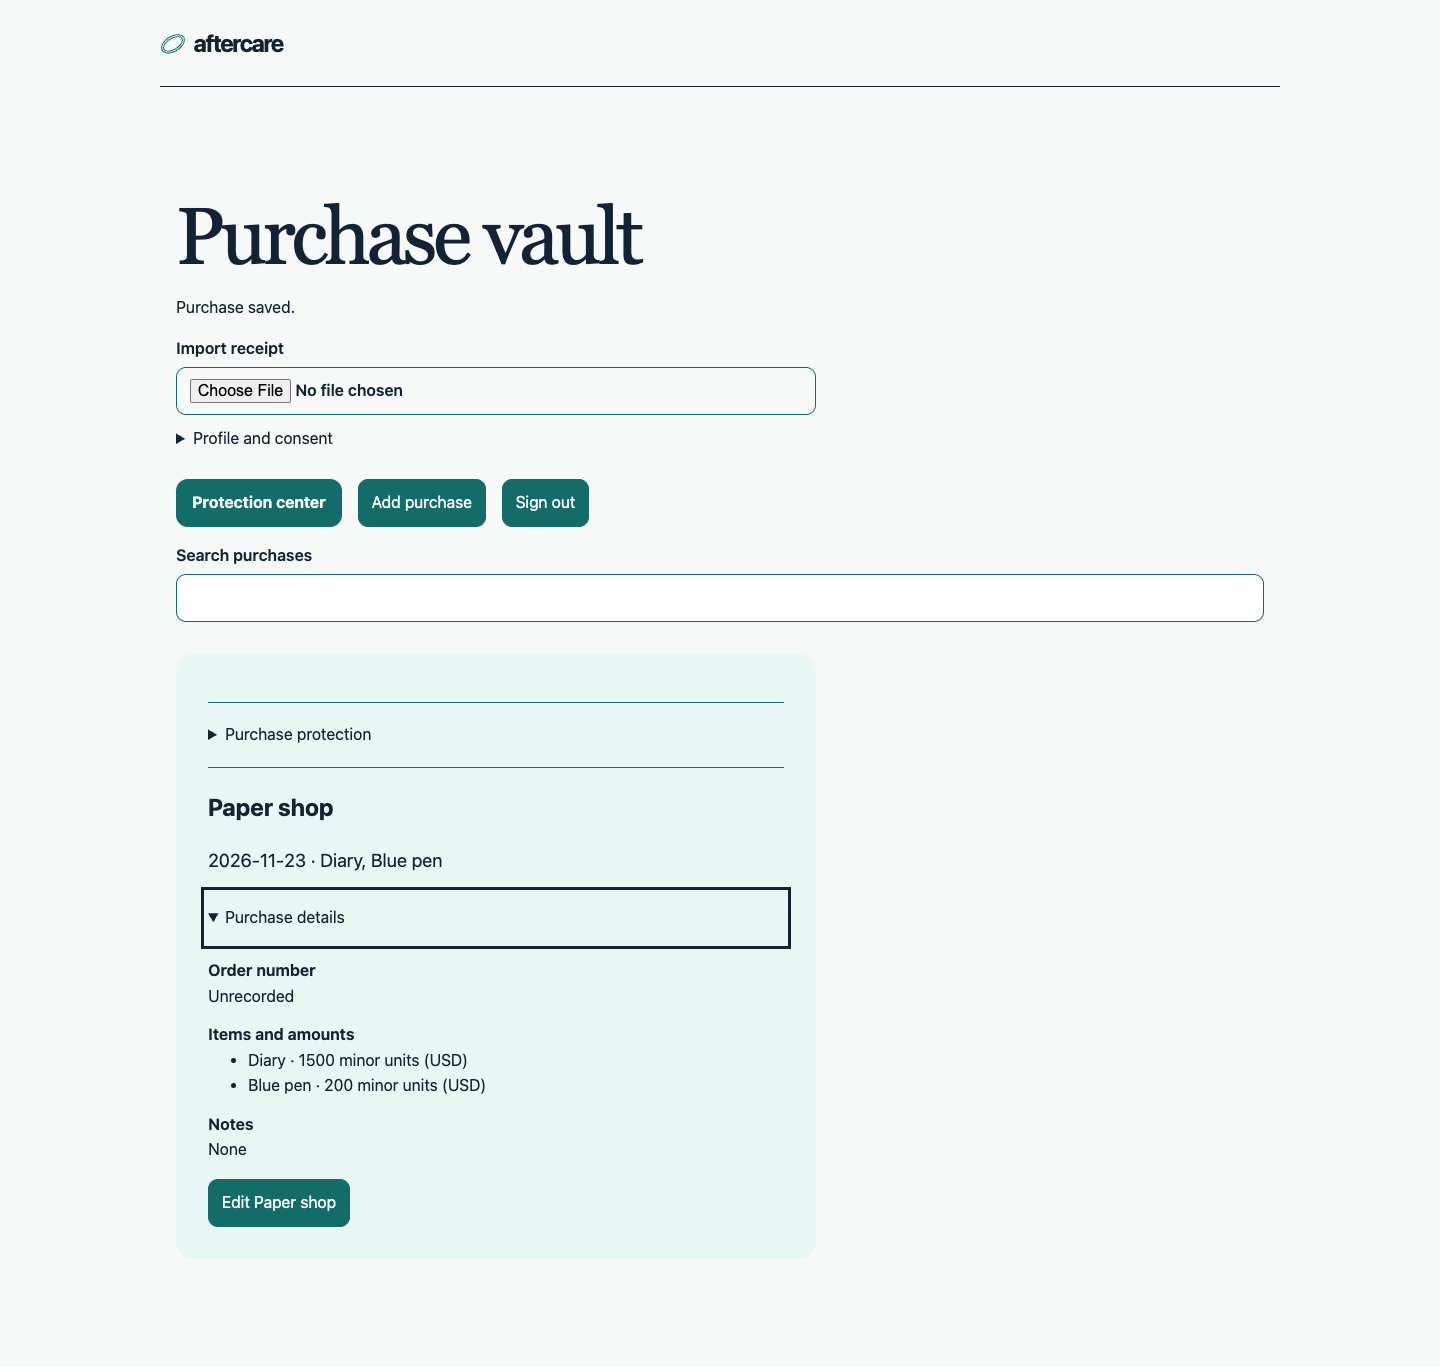
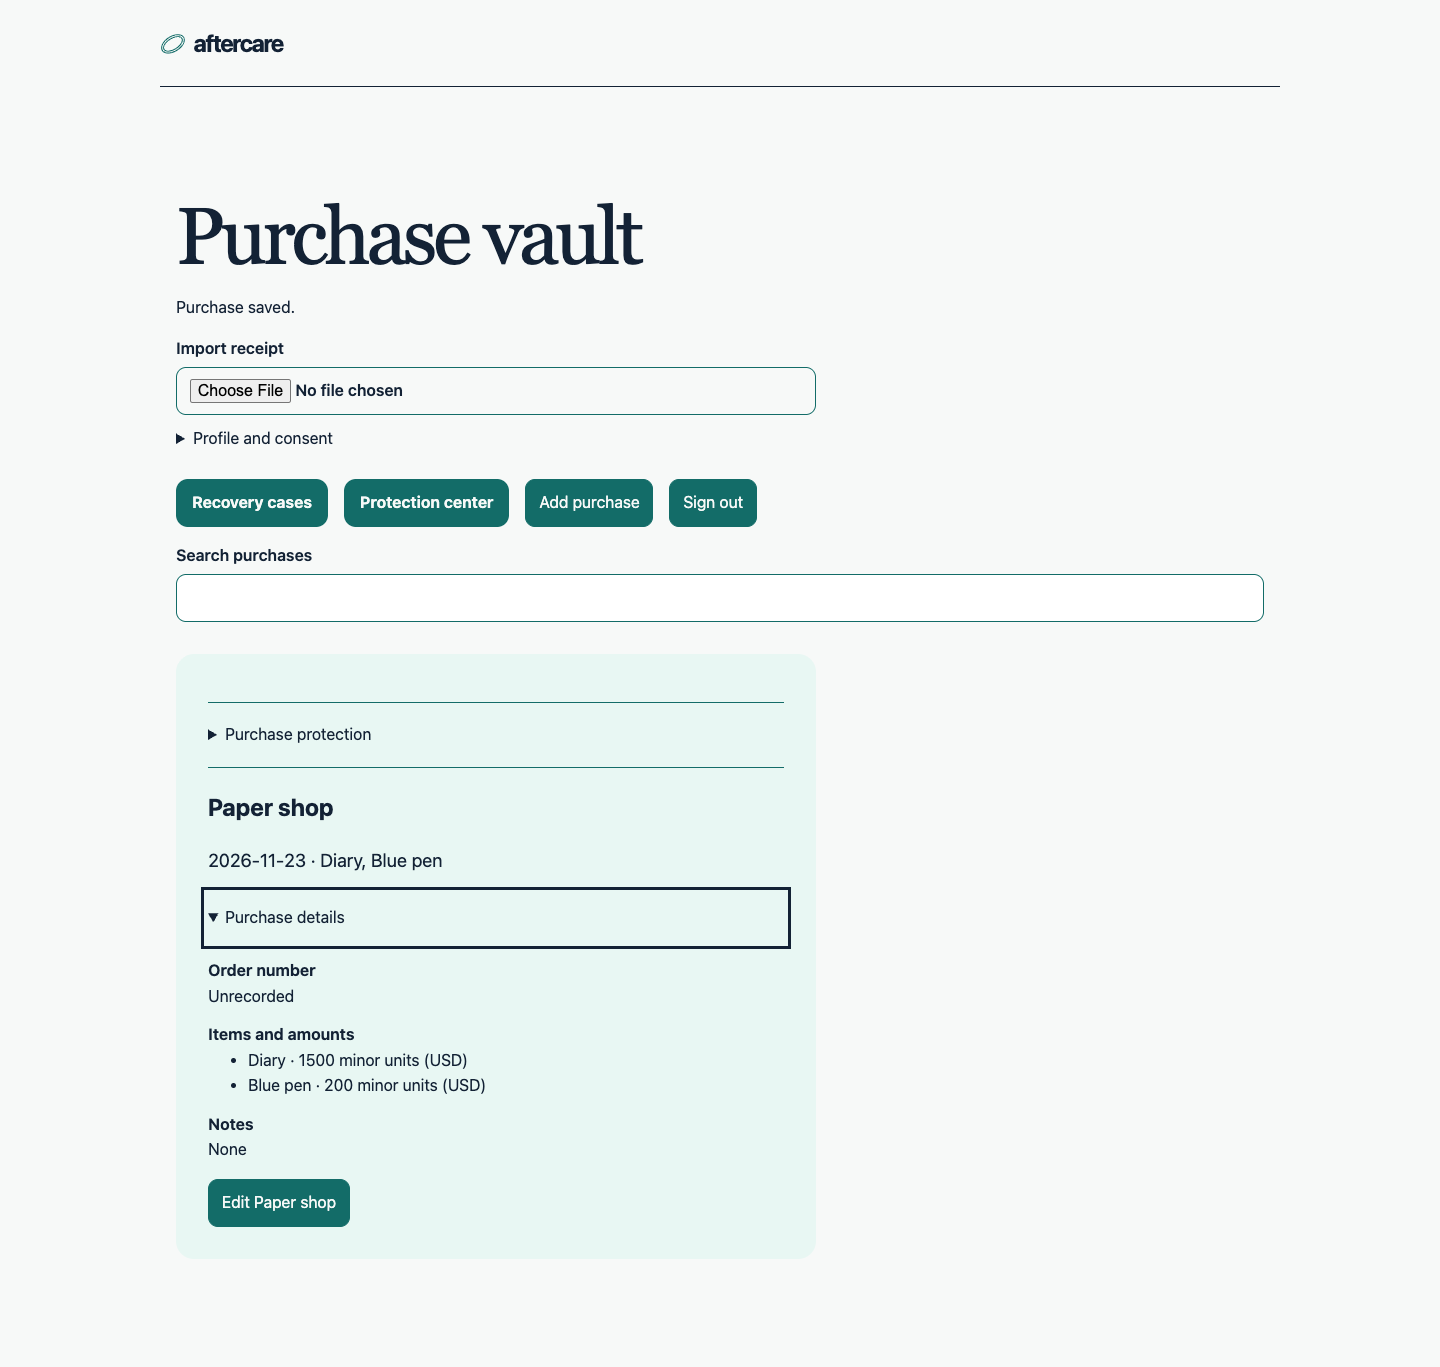
Keep recovery navigation within mobile viewport

Changed region(s): [[0.2188, 0.338, 0.5312, 0.3994]]

diff --git a/packages/ui/tokens.css b/packages/ui/tokens.css
@@ -213,3 +213,6 @@ section {
   margin: 1rem 0;
   font-family: Georgia, serif;
 }
+.vault nav {
+  flex-wrap: wrap;
+}

diff --git a/docs/evidence/M3.md b/docs/evidence/M3.md
@@ -5,3 +5,4 @@ Schema 8 backfills durable observation jobs and queues new observations transact
 The integration test reopened SQLite after a lease was claimed, verified that work resumed after expiry, created a draft, approved and exported it, and rejected reuse of the approval. The test simulates lease abandonment; a real Sprite crash and remote outcome reconciliation remain unverified. Follow-up notification delivery, activity UI, end-to-end recovery browser coverage and bounded failure retries remain outstanding.
 
 Commands: pnpm exec biome format ., pnpm exec biome lint ., pnpm typecheck, pnpm test (22 passed), AFTERCARE_API_PORT=3111 NEXT_TELEMETRY_DISABLED=1 pnpm build, AFTERCARE_API_PORT=3111 pnpm exec playwright test. Owner testing is deferred to the comprehensive final review. Provider expenditure $0.
+Browser regression initially exposed 445px content overflow at 390px. Wrapping the vault action navigation corrected it; the rebuilt production suite passed all 12 tests.
